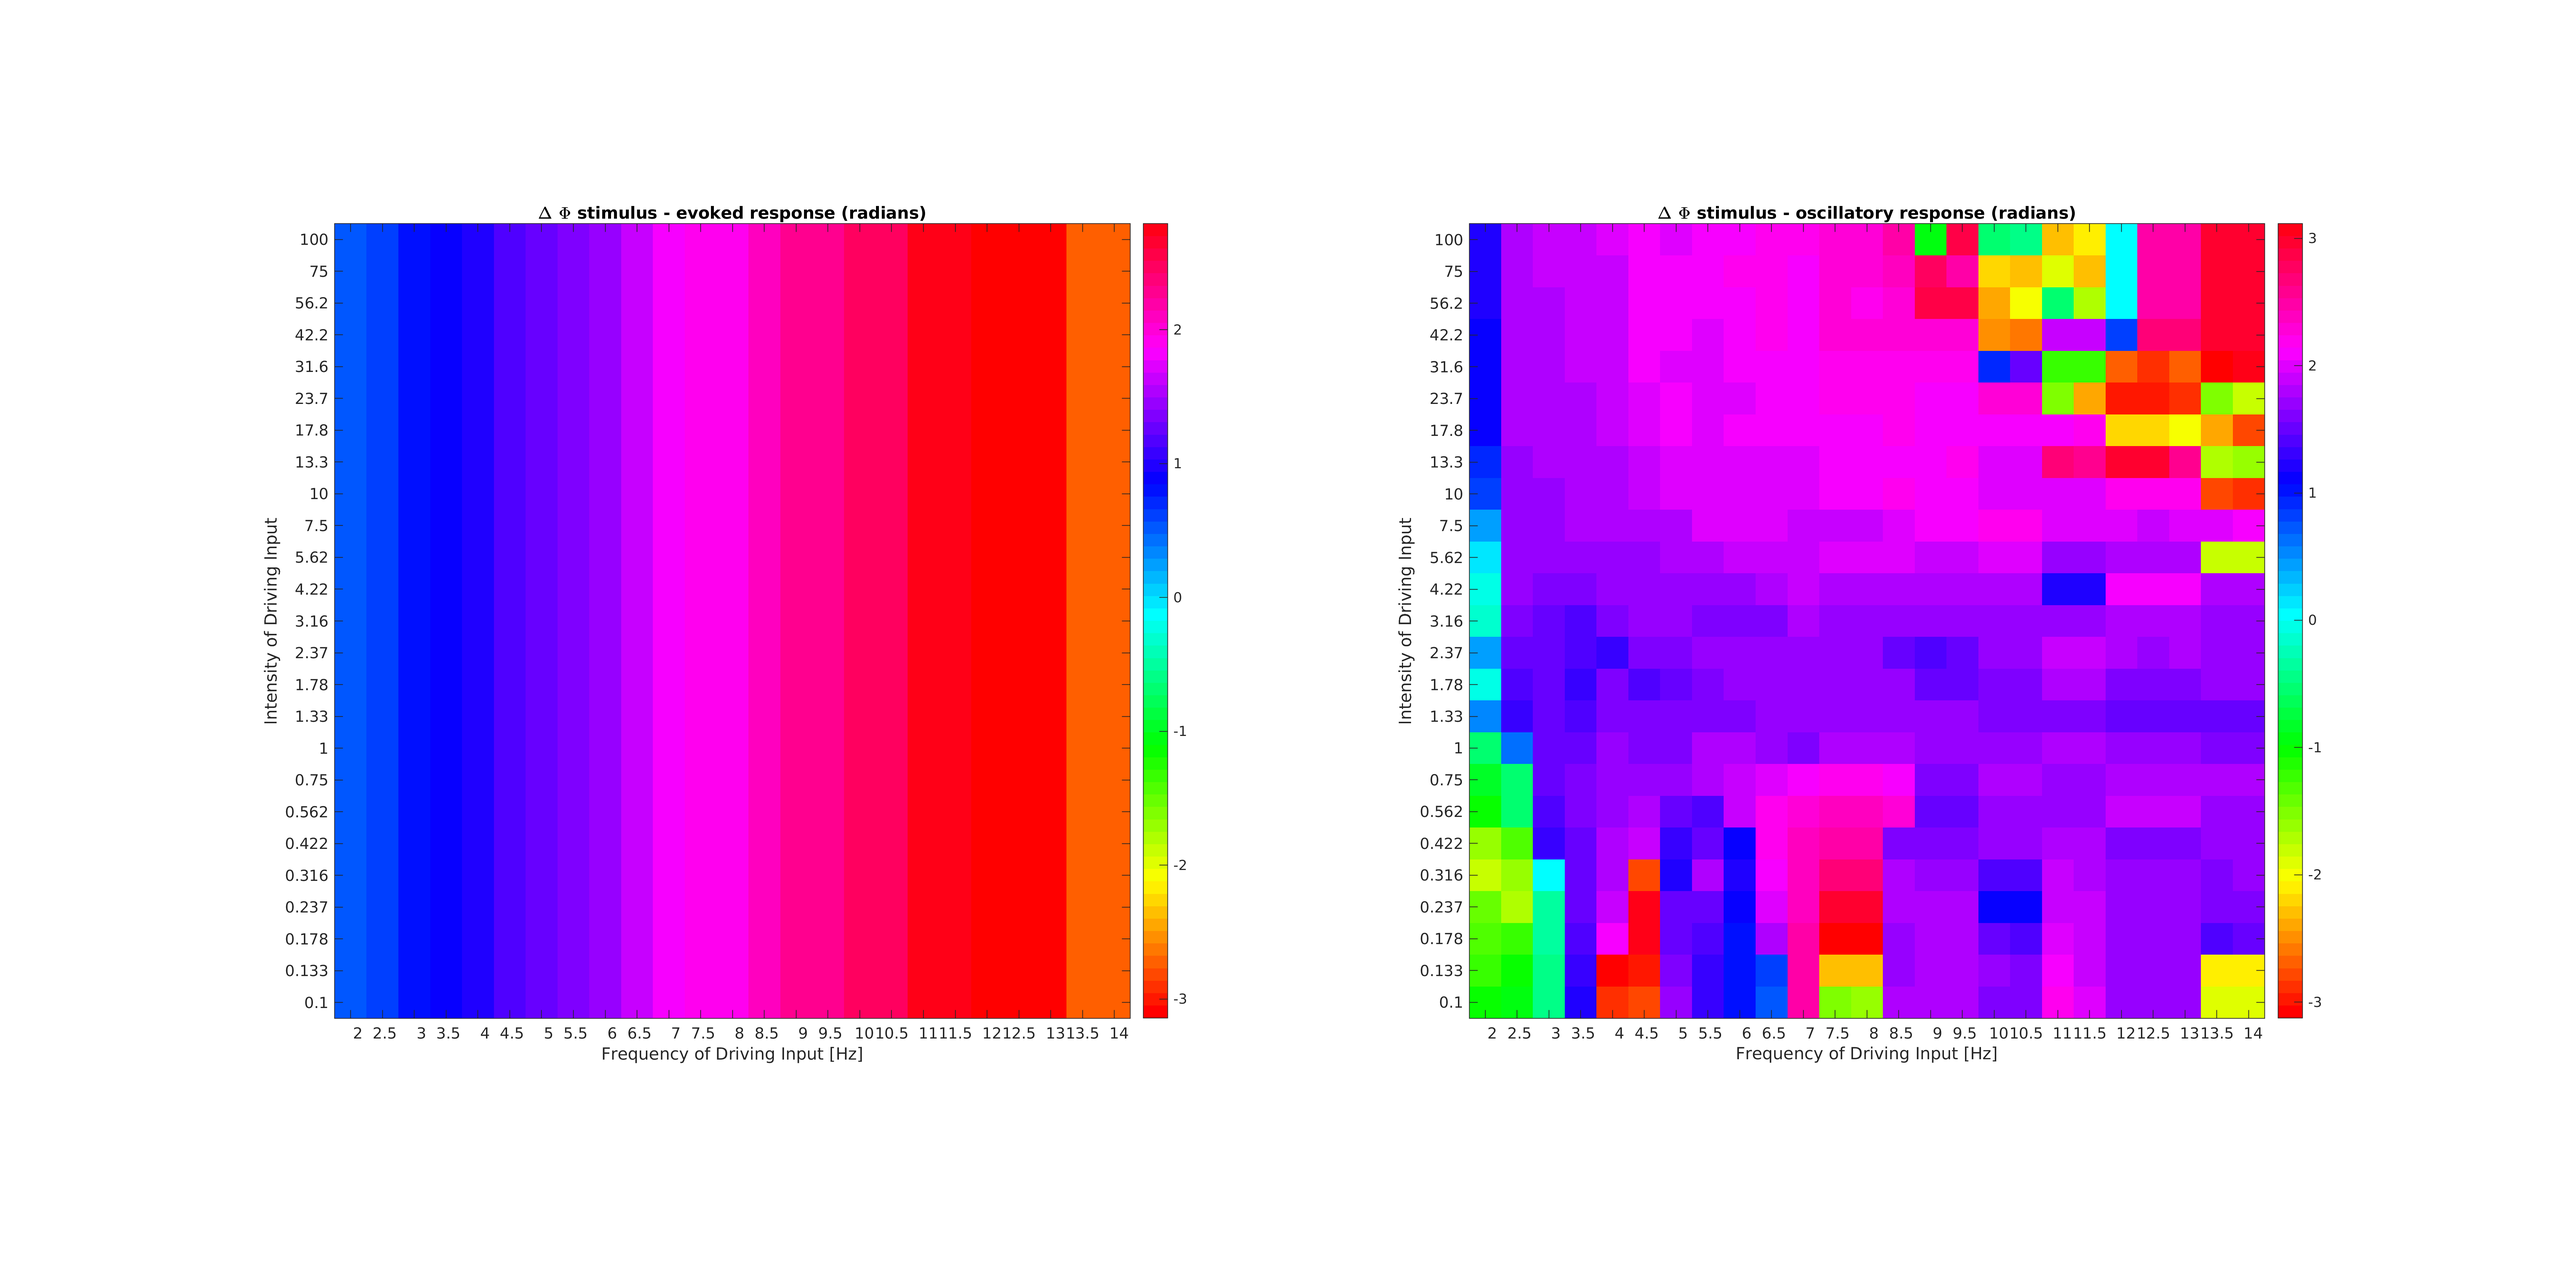
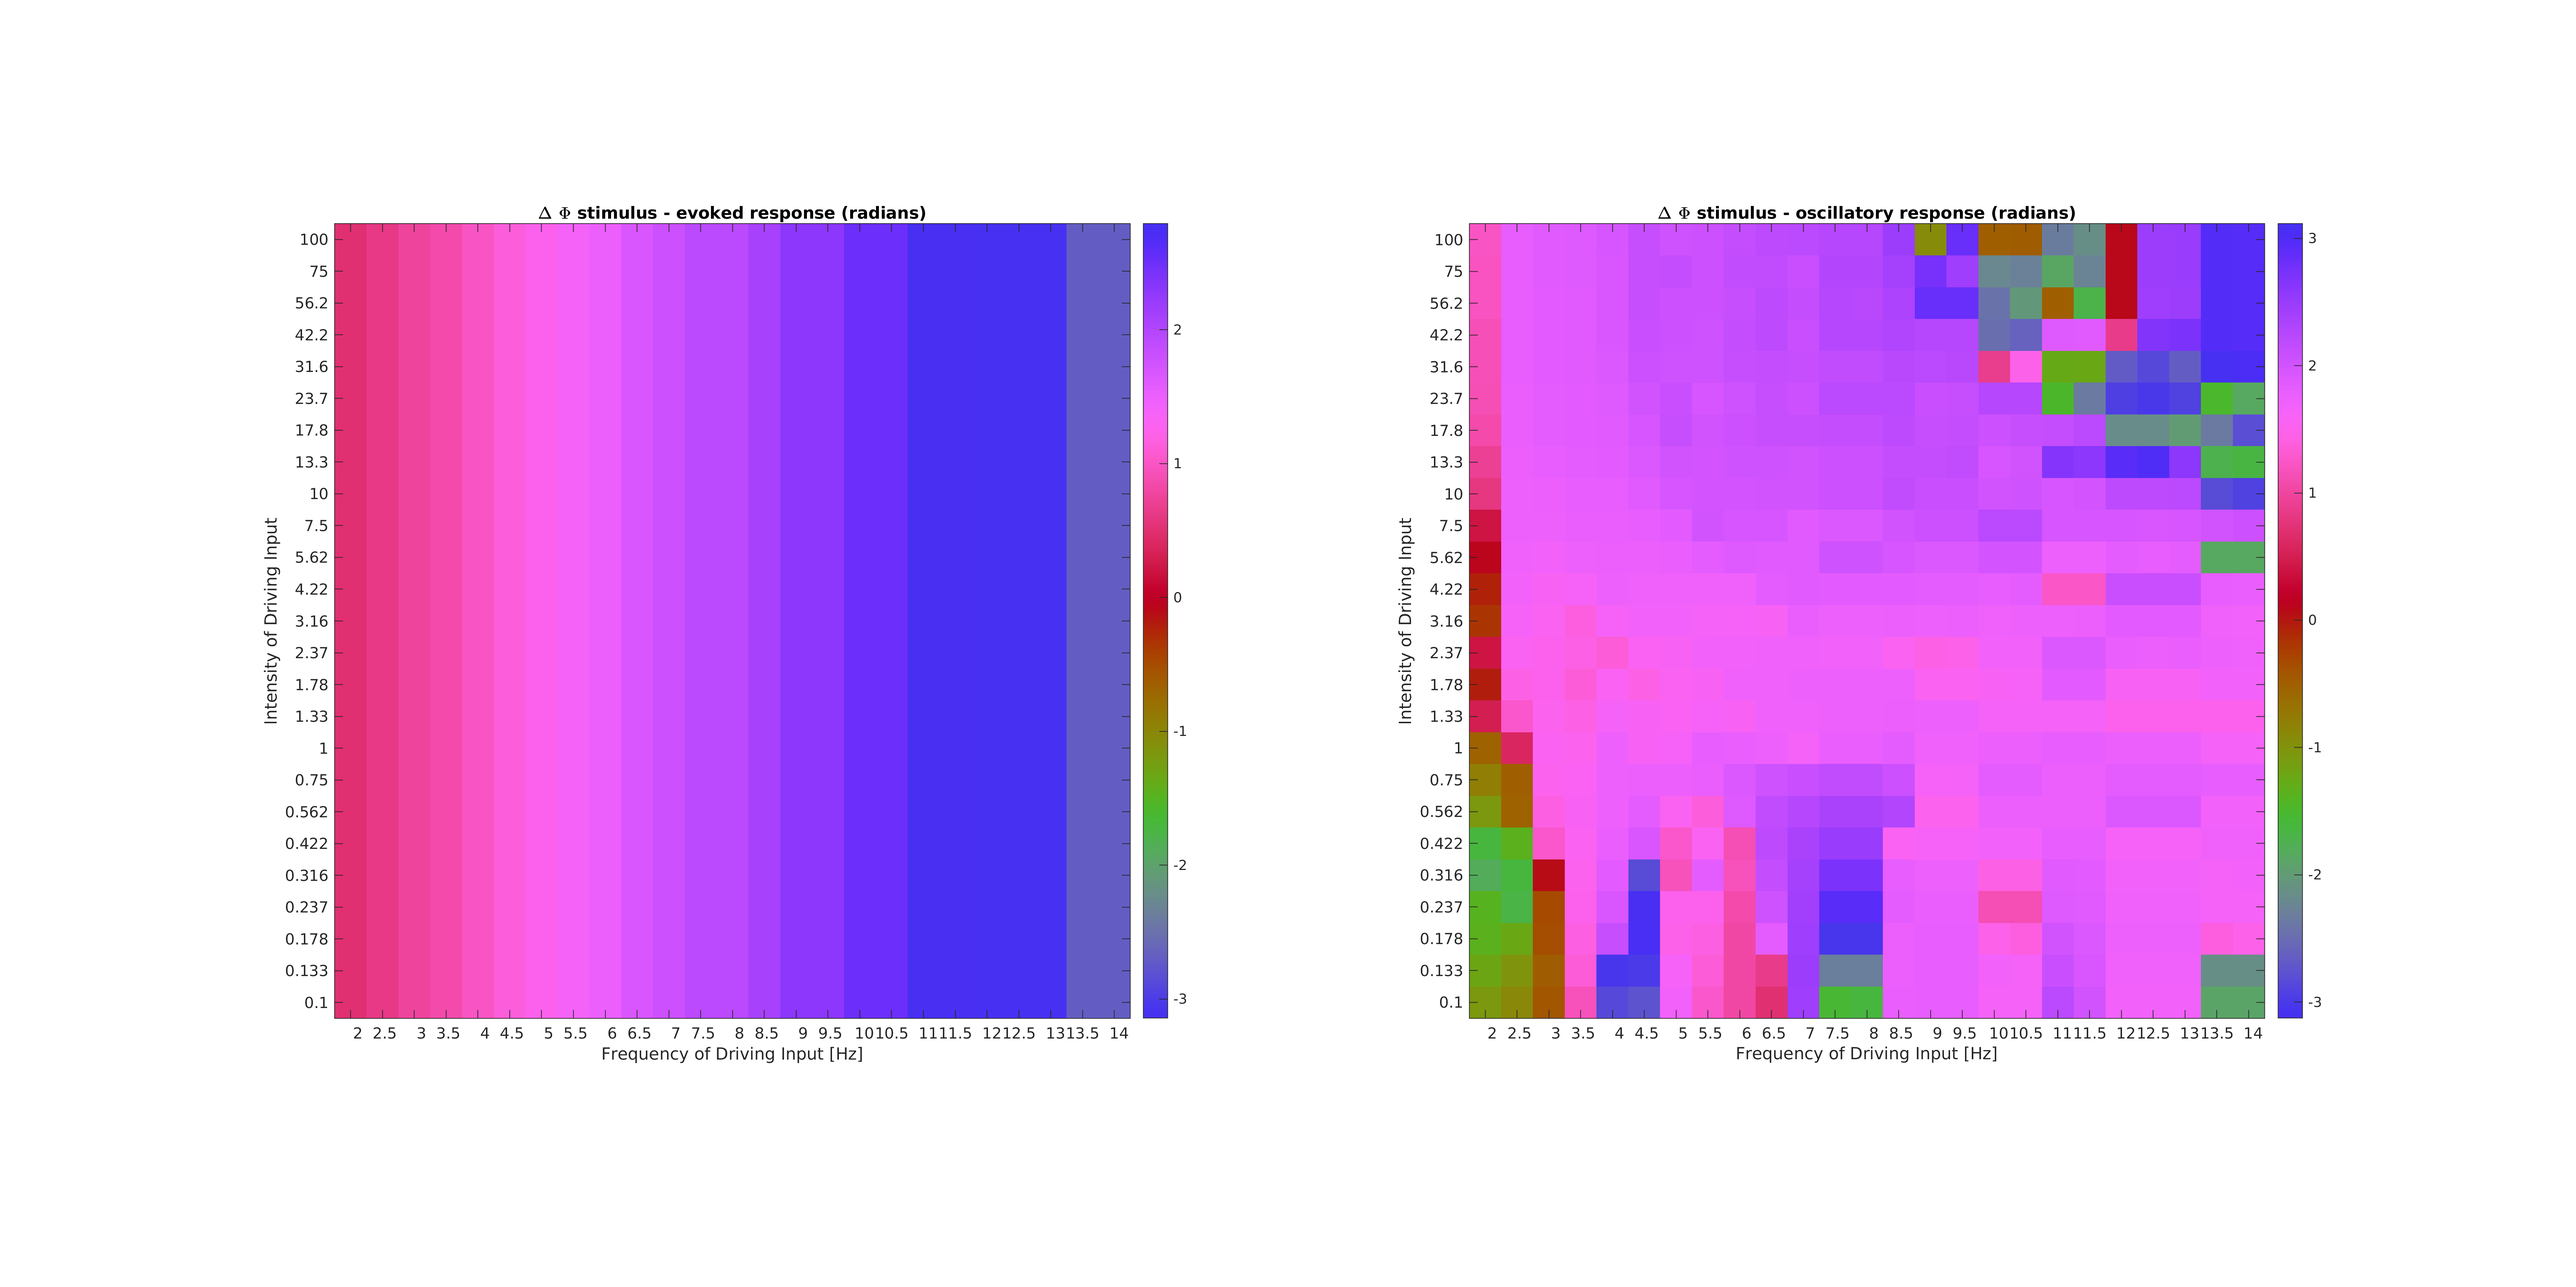
updated circular colormap to perceptually uniform

diff --git a/frequenciesIntensities.m b/frequenciesIntensities.m
@@ -1,3 +1,5 @@
+pMap = colorcet('C9'); % colorcet function by Peter Kovesi ("Good Colour Maps: How to Design Them". arXiv:1509.03700 [cs.GR] 2015)
+
 % parameters
 fs = 100;
 nTarget = 10000;
@@ -19,7 +21,6 @@ subplot(1,2,1)
     imagesc(pdEv)
     axis image
     axis xy
-    colormap(hsv);
     set(gca,'YTick',1:numel(intensities),'YTickLabel',num2str(10.^intensities',3));
     set(gca,'XTick',1:numel(frequencies),'XTickLabel',num2str(frequencies'));
     colorbar
@@ -37,9 +38,10 @@ subplot(1,2,2);
     ylabel('Intensity of Driving Input')
     xlabel('Frequency of Driving Input [Hz]')
     title('\Delta \Phi stimulus - oscillatory response (radians)')
+colormap(pMap)
     
 fig = gcf;    
 fig.PaperUnits = 'centimeters';
 fig.PaperPosition = [0 0 60 30];
 fig.PaperSize = [60 30];
-print(fig,'-dpng','-r300',['Figure_PhaseDiff_freqInt_evOsc.png'])
+print(fig,'-dpng','-r300',['Figures/Figure_PhaseDiff_freqInt_evOsc.png'])
